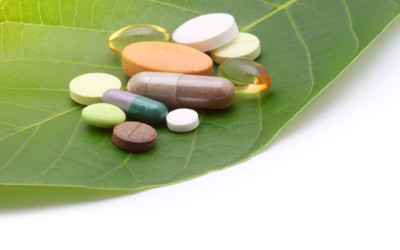
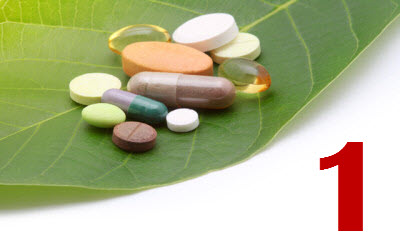
Adding a new post native vs synthesized

Changed region(s): [[0.78, 0.56, 0.93, 0.924]]

diff --git a/_posts/2015-03-30-native-vs-synthesized.md b/_posts/2015-03-30-native-vs-synthesized.md
@@ -1,0 +1,50 @@
+---
+layout: article
+title: ...какие события лучше, нативные или синтезированные?
+date: 2015-03-30T11:21:03+03:00
+excerpt: Я считаю, что синтезированные лучше, потому что они вызывают меньше побочных эффектов, а по функциональности не уступают нативным.
+tags: [selenium]
+image:
+  feature: 2015-03-30-native-vs-synthesized/synthetic_vs_natural.jpg
+  credit: Flooring Overstock San Diego Hardwood Floor
+  creditlink: http://www.flooringoverstock.com/Synthetic-Lawns-Artificial-Turf-_c_98.html
+  teaser: 2015-03-30-native-vs-synthesized/pills_with_leaf_2.jpg
+  thumb:
+comments: true
+ads: true
+---
+В [предыдущей статье](2015-03-16-what-are-native-and-synthesized-events.html) я объяснил, чем отличается эмуляция действий пользователя в FirefoxDriver при помощи нативных и синтезированных событий. И теперь пришло время ответить на вопрос -- какой способ лучше?
+
+Многие считают, что нативные события лучше, потому что они более точно эмулируют поведение пользователя.
+
+Один из основных аргументов, подкрепляющих эту точку зрения, звучит так: "а вдруг синтезированные события синтезированы неправильно -- каких-то не хватает, какие-то лишние, нарушен порядок".
+
+Не исключено, что так оно и есть :)
+
+Однако, во-первых, при генерации синтезированных событий Selenium использует специальный интерфейс [nsIDOMWindowUtils](https://developer.mozilla.org/en-US/docs/Mozilla/Tech/XPCOM/Reference/Interface/nsIDOMWindowUtils), который предназначен как раз для эмуляции действий пользователя. Разработчики браузера Firefox позаботились о том, чтобы синтезированные события выглядели достаточно натуралистично.
+
+А во-вторых, нативные события ведь тоже эмулируются, создаются искусственно. Так что там тоже могут быть какие-то события пропущены или сгенерированы в неправильном порядке. Вероятность накосячить здесь ничуть не меньше. Нет никаких причин доверять разработчикам механизма нативных событий больше, чем разработчикам механизма синтезированных событий.
+
+Резюмируя вышесказанное, я бы не сказал, что та или другая реализация эмулирует действия пользователя более точно.
+
+Зато **нативные события обладают целым рядом недостатков, которые не присущи синтезированным событиям.**
+
+Во-первых, для того, чтобы нативные события корректно работали, браузер должен быть в фокусе, на переднем плане.
+
+Поэтому запустить несколько экземпляров браузера на одной машине и при этом использовать нативные события -- весьма рискованное предприятие. Синтезированные события гарантируют полную изоляцию, клик, сделанный в одном браузере, ни при каких условиях не сможет попасть в другой экземпляр.
+
+Во-вторых, нативные события перемещения мыши вызывают у браузера впечатление, что мышь и правда двигается.
+
+Это приводит к возникновению различных "побочных эффектов". Например, собираемся мы кликнуть по какому-нибудь элементу. Сначала Selenium наводит на него мышь, чтобы всё выглядело естественно. Двигаясь к элементу, мышь пробегает над каким-нибудь выпадающим меню. Оно, естественно, выпадает -- и накрывает элемент. Однако Selenium не обращает на это внимания и кликает в том месте, где находится требуемый элемент. Но нажатие выполняется по элементу выпавшего меню, потому что именно он находится в данный момент в той точке, куда кликнула мышь. Чтобы справиться с этой проблемой, приходится строить разные костыли. Например, сначала подвигать мышь вниз, чтобы потом она наводилась на нужный элемент не сверху (где находится меню), а снизу. Сами понимаете, изящности тестам это не добавляет. А синтезированные события таких побочных эффектов не вызывают.
+
+Вот ещё один пример такого же рода. Есть два блока div -- побольше и поменьше, маленький находится внутри большого. С обоими блоками связаны обработчики нажатия, причём разные. Теперь попробуйте ответить на вопрос, что будет, если кликнуть по большому блоку? Selenium эмулирует нажатие кнопки мыши в центральной точке, и если эта точка перекрывается маленьким вложенным блоком -- нативные события вызовут срабатывание обработчика маленького блока. А если центральная точка не перекрывается маленьким блоком -- тогда будет вызван обработчик большого блока. И если расположение этих блоков меняется динамически, маленький блок либо оказывается внутри, либо нет (например, в зависимости от размера окна браузера) -- результат попытки кликнуть по большому блоку становится труднопредсказуемым. И опять приходится делать костыли, например, кликать не в центр, а в точку, отстоящую на два пикселя от левого края блока. Оно вам надо?
+
+Разумеется, это далеко не полный список проблем, связанных с использованием нативных событий. Я выбрал эти примеры потому, что описанные ситуации достаточно часто встречаются в реальной жизни, они не связаны с "тонкими" действиями типа наведения курсора мыши на элемент и могут проявляться даже в примитивных сценариях, где всего лишь выполняется серия кликов.
+
+Ну и напоследок **ещё один аргумент, в пользу синтезированных событий -- производительность**.
+
+Сравните среднее время выполнения тестов на сервере непрерывной интеграции Selenium, где запускается один и тот же набор тестов с [нативными](http://ci.seleniumhq.org:8080/job/Firefox%2031%20XP%20Native%20Java%20Tests/lastCompletedBuild/testReport/history/) и [синтезированными](http://ci.seleniumhq.org:8080/job/Firefox%2031%20XP%20Synthesized%20Java%20Tests/lastCompletedBuild/testReport/history/) событиями.
+
+Реализация, использующая синтезированные события, работает в среднем примерно на 20% быстрее.
+
+Поэтому я считаю, что использования нативных событий следует по-возможности избегать. Они добавляют проблем больше, чем решают. И если синтезированные события пока не позволяют выполнить какие-то действия -- нужно сообщить об этом разработчикам, мы постараемся исправить этот баг.
